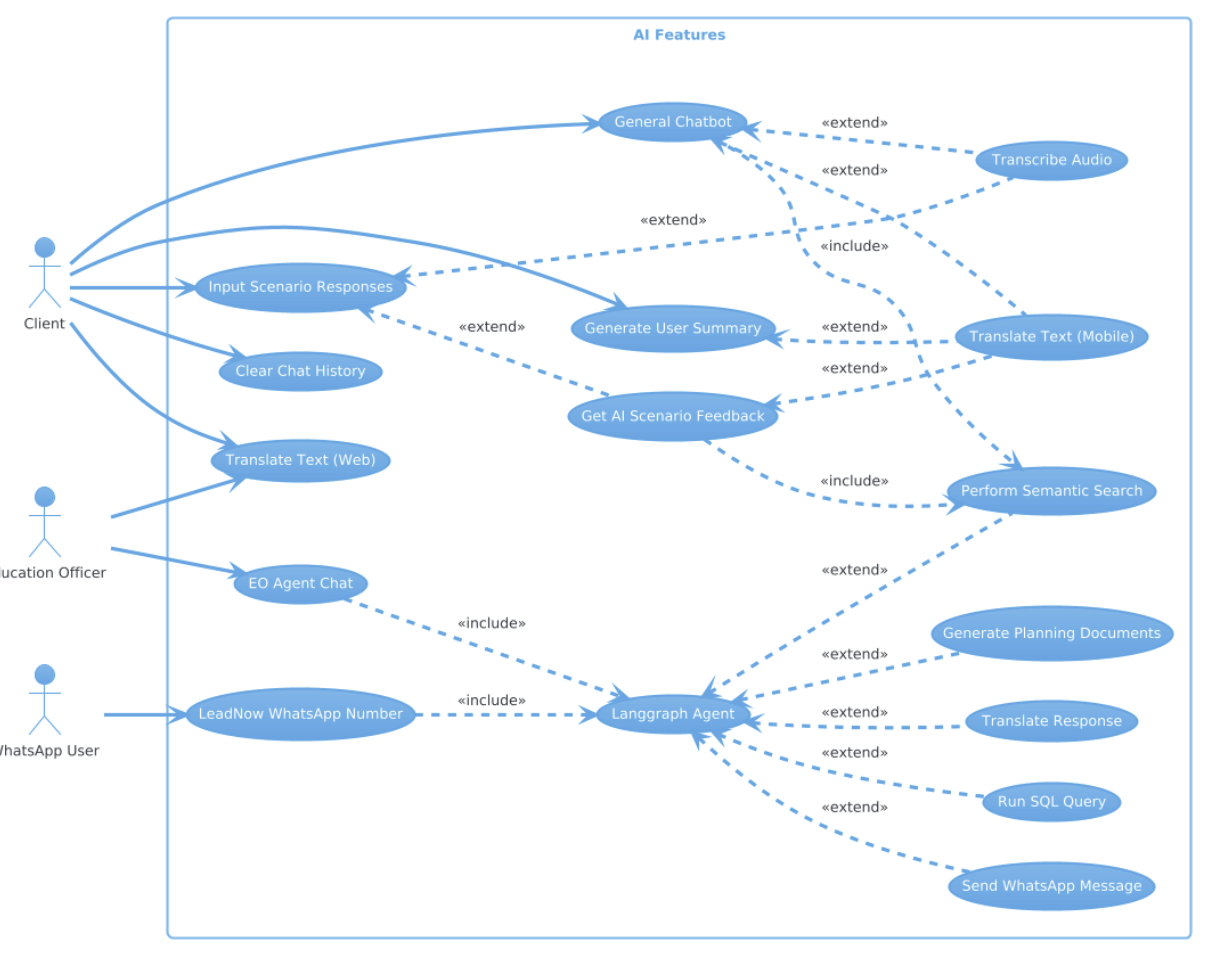
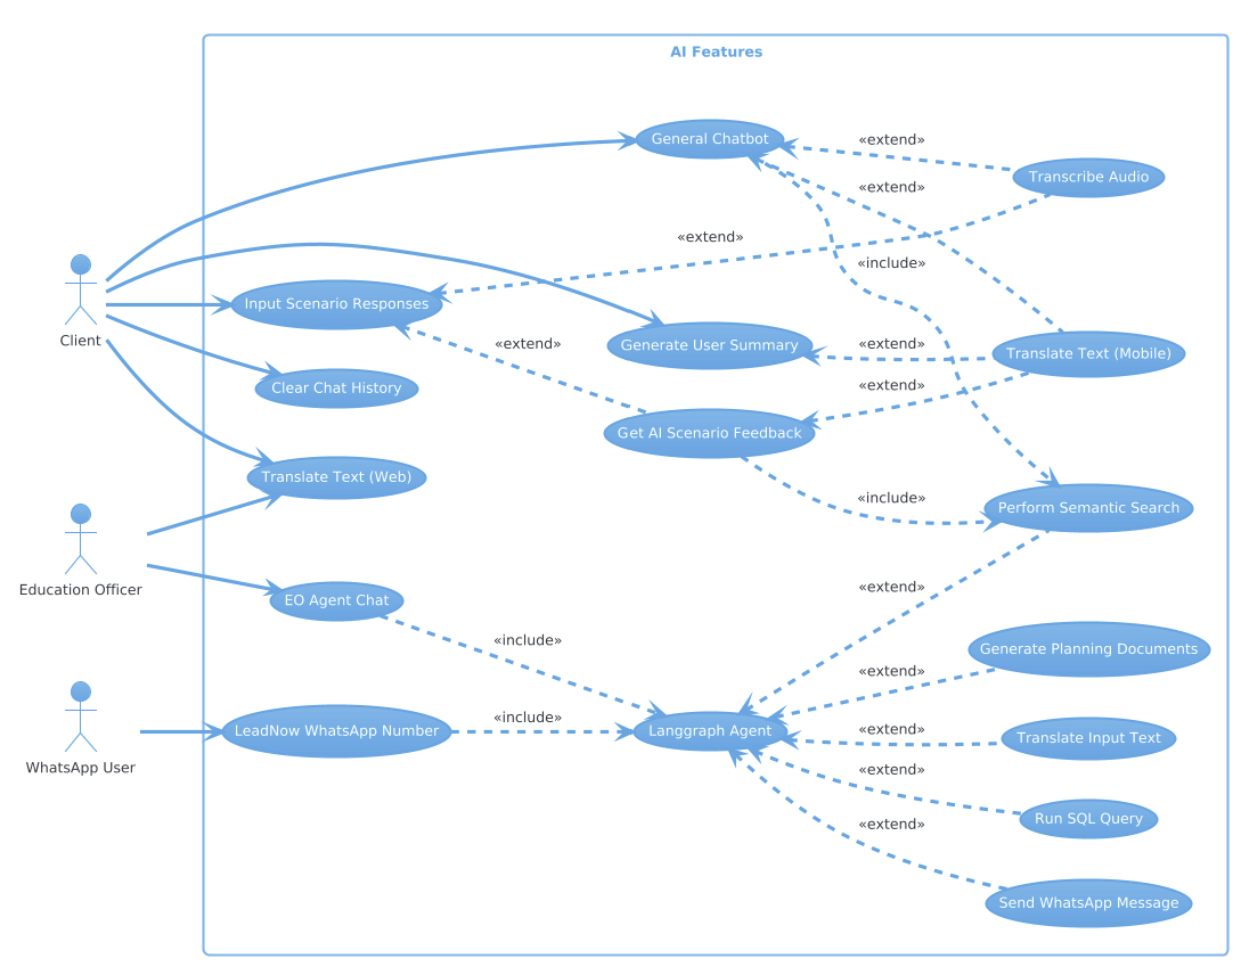
challenges and use-cases

diff --git a/docusaurus/docs/requirements/use-cases.md b/docusaurus/docs/requirements/use-cases.md
@@ -8,17 +8,13 @@ sidebar_position: 5
 
 ![Use Case Diagram](/img/requirements-use-case.png)
 
----
-
 ## Actors
 
 | Actor | Description |
 |-------|-------------|
 | **Client** | A LeadNow programme participant accessing the web application to practice scenarios, chat with the AI and generate summaries. |
-| **Education Officer (EO)** | A LeadNow staff member who uses the EO Agent to query programme data and generate planning documents. |
+| **Education Officer** | A LeadNow staff member who uses the EO Agent to query programme data and generate planning documents. |
 | **WhatsApp User** | A user interacting with LeadNow via WhatsApp messaging, routed through the LeadNow WhatsApp number. |
-
----
 
 ## Use Cases
 
@@ -31,16 +27,12 @@ sidebar_position: 5
 | **Includes** | • Perform Semantic Search: the chatbot always retrieves relevant knowledge base content to ground its response. |
 | **Extensions** | • Transcribe Audio: the client may submit a voice message instead of text.<br/>• Translate Text (Mobile): the response may be translated into the client's preferred language. |
 
----
-
 ### Clear Chat History
 
 | Field | Detail |
 |-------|--------|
 | **Actor** | Client |
 | **Description** | The client clears their current conversation history, resetting the chatbot context. |
-
----
 
 ### Input Scenario Responses
 
@@ -49,8 +41,6 @@ sidebar_position: 5
 | **Actor** | Client |
 | **Description** | The client submits responses to a scenario-based learning page. |
 | **Extensions** | • Transcribe Audio: the client may speak their response rather than type it.<br/>• Get AI Scenario Feedback: after submission, the system may generate AI-powered feedback on the response. |
-
----
 
 ### Get AI Scenario Feedback
 
@@ -61,8 +51,6 @@ sidebar_position: 5
 | **Includes** | • Perform Semantic Search: retrieves relevant leadership knowledge to contextualise the feedback. |
 | **Extensions** | • Translate Text (Mobile): feedback may be translated into the client's preferred language. |
 
----
-
 ### Generate User Summary
 
 | Field | Detail |
@@ -71,34 +59,26 @@ sidebar_position: 5
 | **Description** | The system generates a summary of the client's progress, achievements and recommended next steps. |
 | **Extensions** | • Translate Text (Mobile): the summary may be translated into the client's preferred language. |
 
----
-
 ### Translate Text (Web)
 
 | Field | Detail |
 |-------|--------|
 | **Actors** | Client, Education Officer |
-| **Description** | The user highlights text on the web application, a popup appears with a translate button, and clicking it displays the translated Swahili text. |
-
----
+| **Description** | The user highlights text on the web application, a popup appears with a translate button, and clicking the button displays the translated Swahili text. |
 
 ### Transcribe Audio
 
 | Field | Detail |
 |-------|--------|
 | **Actor** | Client (via General Chatbot or Input Scenario Responses) |
-| **Description** | The user clicks a record button to capture live audio, which the system transcribes into text and processes as a standard text input. |
-
----
+| **Description** | The user clicks a record button to capture live audio, which the system transcribes into text and populates the input field. |
 
 ### Translate Text (Mobile)
 
 | Field | Detail |
 |-------|--------|
-| **Actor** | Client (via General Chatbot, Get AI Scenario Feedback, or Generate User Summary) |
+| **Actor** | Client (via General Chatbot, Get AI Scenario Feedback or Generate User Summary) |
 | **Description** | AI-generated responses are translated into Swahili on the mobile interface via a translate button. |
-
----
 
 ### EO Agent Chat
 
@@ -108,8 +88,6 @@ sidebar_position: 5
 | **Description** | The Education Officer interacts with a dedicated AI agent to query programme data, retrieve participant insights, generate planning documents and more. |
 | **Includes** | • Langgraph Agent: all EO Agent interactions are orchestrated through the multi-step Langgraph agent pipeline. |
 
----
-
 ### LeadNow WhatsApp Number
 
 | Field | Detail |
@@ -118,35 +96,27 @@ sidebar_position: 5
 | **Description** | A user sends a WhatsApp message to the LeadNow number. The system receives the message and routes it to the Langgraph agent for processing. |
 | **Includes** | • Langgraph Agent: all incoming WhatsApp messages are handled by the Langgraph agent pipeline. |
 
----
-
 ### Langgraph Agent
 
 | Field | Detail |
 |-------|--------|
 | **Actor** | System (invoked by EO Agent Chat or LeadNow WhatsApp Number) |
 | **Description** | A multi-step orchestration agent that coordinates tool usage to fulfil complex requests. It selects and invokes the appropriate tools based on the user's intent. |
-| **Extensions** | • Perform Semantic Search: optionally retrieves relevant documents from the knowledge base.<br/>• Send WhatsApp Message: optionally sends a reply back to a WhatsApp user.<br/>• Run SQL Query: optionally queries the programme database.<br/>• Translate Response: optionally translates the final response.<br/>• Generate Planning Documents: optionally produces structured planning artefacts for the Education Officer. |
-
----
+| **Extensions** | • Perform Semantic Search: optionally retrieves relevant documents from the knowledge base.<br/>• Send WhatsApp Message: optionally sends a reply back to a WhatsApp user.<br/>• Run SQL Query: optionally queries the programme database.<br/>• Translate Input Text: optionally translates the input text.<br/>• Generate Planning Documents: optionally produces structured planning artefacts for the Education Officer. |
 
 ### Perform Semantic Search
 
 | Field | Detail |
 |-------|--------|
-| **Actor** | System |
+| **Actor** | System (via General Chatbot, Get AI Scenario Feedback or Langgraph Agent) |
 | **Description** | The system performs a vector similarity search over the LeadNow knowledge base (RAG) to retrieve the most relevant content for a given query. Used across the chatbot, scenario feedback and the Langgraph agent. |
-
----
 
 ### Send WhatsApp Message
 
 | Field | Detail |
 |-------|--------|
 | **Actor** | System (via Langgraph Agent) |
-| **Description** | The Langgraph agent sends a reply message back to the originating WhatsApp user via the WhatsApp Business API. |
-
----
+| **Description** | The Langgraph agent sends a WhatsApp message to a specified phone number via the WhatsApp Business API. |
 
 ### Run SQL Query
 
@@ -155,16 +125,12 @@ sidebar_position: 5
 | **Actor** | System (via Langgraph Agent) |
 | **Description** | The Langgraph agent executes a structured SQL query against the programme database to retrieve participant or programme data. |
 
----
-
-### Translate Response
+### Translate Input Text
 
 | Field | Detail |
 |-------|--------|
 | **Actor** | System (via Langgraph Agent) |
-| **Description** | The Langgraph agent translates a generated response into the target user's language before delivering it. |
-
----
+| **Description** | The Langgraph agent translates the input text between English and Swahili. |
 
 ### Generate Planning Documents
 

diff --git a/docusaurus/docs/evaluation/challenges.md b/docusaurus/docs/evaluation/challenges.md
@@ -4,6 +4,20 @@ sidebar_position: 4
 
 # Challenges
 
-Details about challenges will go here.
+During the development of the LeadNow AI-coaching platform, our team faced several technical and operational challenges, particularly around frontend development and integration with backend services.
 
+## Frontend Deployment
 
+One of the main challenges was getting started with the frontend. The development server was hosted in Kenya and was not configured to allow local hosting, causing significant delays early in the project. We spent considerable time in meetings with the developer to understand how to access the frontend.
+
+To continue development, we resorted to manually uploading all frontend changes using SFTP. Without SSH access, we were unable to set up automated GitHub CI/CD pipelines, making the deployment process slower and more manual throughout the project.
+
+## AI Feature Integration
+
+Another challenge was demonstrating the AI-powered features on the frontend. Since features such as the chatbot, user summary and personalised feedback required a FastAPI backend, we hosted these services on Azure Container Apps as Docker containers. This setup allowed us to showcase the AI features on the frontend regardless of constraints on the development server.
+
+## Environment Configuration
+
+We also did not have access to the server's `.env` file, which contains critical configuration such as API URLs and keys for the FastAPI backend. Without this, directly connecting the frontend to the backend in a secure and flexible way was not straightforward.
+
+To work around this, we created a `fastapi.conf` file containing the necessary backend configuration values. This file is stored on the SFTP server but is included in `.gitignore` to keep sensitive information out of the GitHub repository. We also created a configuration file in `config/fastapi.php`, which first read values from `fastapi.conf`, then falling back to the standard `.env` file if it is not present. This approach allows for seamless local development while ensuring a smooth transition to the client’s server in the future if they choose to move these configuration values to the `.env` file.

diff --git a/docusaurus/docs/requirements/moscow-requirements-list.md b/docusaurus/docs/requirements/moscow-requirements-list.md
@@ -3,7 +3,7 @@ sidebar_position: 6
 ---
 
 # MoSCoW Requirements List
-The requirements were defined based on the needs and approved add ons from the Dignitas team
+The requirements were defined based on the needs and approved add ons from the Dignitas team.
 
 ## Functional requirements
 
